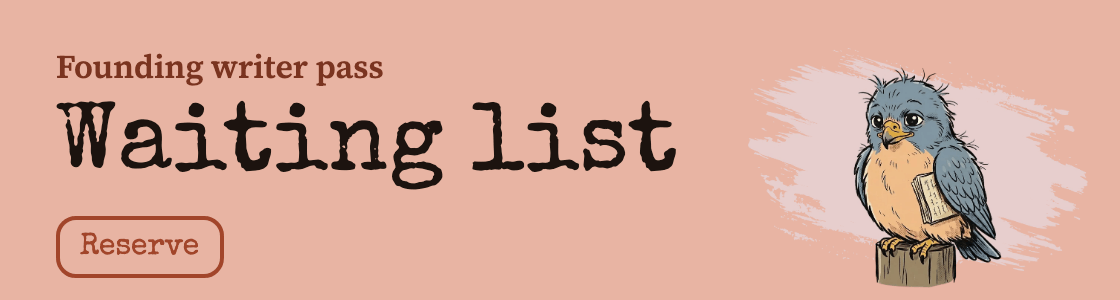
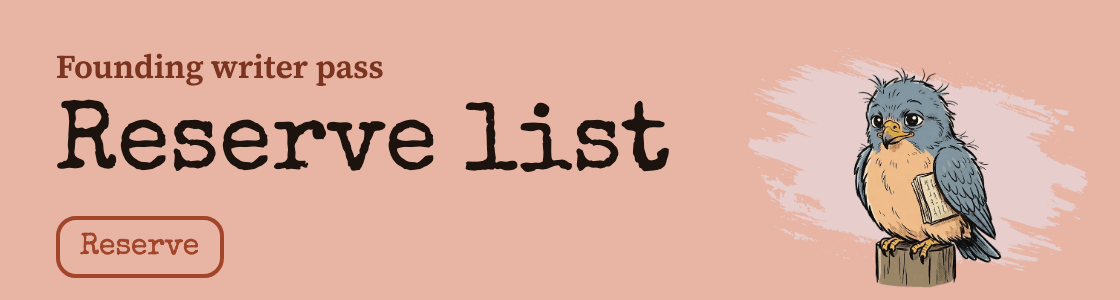
Waitlist clarity 5: the overflow state is the "reserve list"
"Waitlist" now means everyone who signs up, so the state after all fifty places have gone is the
reserve list in every word a reader sees. Constant names are unchanged.

Changed:
- emailCopy.ts: WAITING_SUBJECT, WAITING_PREHEADER, WAITING_PASS, WAITING_HEADING, WAITING_LEAD,
  WAITING_NOTHING_TO_DO ("stays on the reserve list"), UNSUBSCRIBE_NOTE_WAITING.
- welcomeCopy.ts: PASS_LABEL_WAITING, heroCopy("waiting") heading and lede, nextSteps("waiting").
- landingCopy.ts: FOUNDING_FULL.
- The two email images that draw it (pass-waiting.png, heading-waiting.png) and their alt text,
  rebuilt with scripts/email-images/build.mjs; the other 52 images came out byte-identical.
  They are hosting files, so they reach readers with the next hosting deploy.

Deliberately left:
- The confirm email's "you'll go on the waiting list instead" (CONFIRM_NOT_HELD): the brief says to
  leave the confirm email's wording as it is.
- legalCopy.ts, the privacy policy's "When you join the founding writers' waiting list…": that is the
  sign-up in general, and legal copy is its own review.
- src/lib/inviteCode.ts "Join the waiting list": the app's sign-up screen, outside this brief.
- Comments and test names.

Locks: WLC-5 in src/marketing/waitlistClarityCopy.test.ts and functions/src/waitlistClarity.test.ts
(four cases, red on the unchanged tree; the email is read as a reader sees it, images by their alt
text, and must never say "waiting list"). Re-pointed: foundingEmails EM-1/EM-4 and images-off,
[…]

Changed region(s): [[0.0312, 0.33, 0.625, 0.63]]

diff --git a/functions/src/foundingEmails.test.ts b/functions/src/foundingEmails.test.ts
@@ -80,18 +80,18 @@ const EXPECT = {
   },
   waiting: {
     email: waiting,
-    subject: "You're on the founding writers' waiting list",
-    preheader: "The fifty places went, but you're on the waiting list.",
+    subject: "You're on the founding writers' reserve list",
+    preheader: "The fifty places went, but you're on the reserve list.",
     strings: [
-      "Waiting list",
-      "All fifty places have gone, but you're on the waiting list.",
-      "Thanks for confirming. All fifty founding places were taken before your click came through, so you're on the waiting list, in the order people confirmed.",
+      "Reserve list",
+      "All fifty places have gone, but you're on the reserve list.",
+      "Thanks for confirming. All fifty founding places were taken before your click came through, so you're on the reserve list, in the order people confirmed.",
       /* decision 2(b) */
       "If a founding writer gives up their place, it goes to the next person in line, and I'll email you straight away if that's you.",
-      "You don't need to do anything else. Your address stays on the list, and you can take it off any time with the link below.",
+      "You don't need to do anything else. Your address stays on the reserve list, and you can take it off any time with the link below.",
       "Sorry we couldn't fit you in this time, and thank you for signing up.",
       "Nick", "Founder, QueryHawk",
-      "This takes you off the waiting list.",
+      "This takes you off the reserve list.",
       ...FOOT,
     ],
   },
@@ -209,7 +209,7 @@ describe("EM-4 · a freed place goes to the next writer in line, and the waiting
   });
   it("the sign-up's own words (landingCopy): FOUNDING_FULL promises the email", () => {
     const src = readFileSync(join(process.cwd(), "src/marketing/landingCopy.ts"), "utf8").replace(/\/\*[\s\S]*?\*\//g, "").replace(/\/\/[^\n]*/g, "");
-    expect(src).toContain("founding places have gone, but we've emailed you a link: click it to join the waiting list, and we'll email you if a place opens up.");
+    expect(src).toContain("founding places have gone, but we've emailed you a link: click it to join the reserve list, and we'll email you if a place opens up.");
   });
   it("the unsubscribe path sends email 2 to the writer it promotes, from one place", () => {
     const src = readFileSync(join(process.cwd(), "functions/src/waitlist.ts"), "utf8");
@@ -285,7 +285,7 @@ describe("images off (Outlook's default): the alts and the text still read in or
       "Once you've confirmed", "Nick", "Founder, QueryHawk", "Didn't ask for this?", "Button not working?"]],
     welcome: [welcome, ["Founding writer pass: No. 14 of 50", "That's your place confirmed.", "Welcome aboard.",
       "Hi, I'm Nick.", "Nick Founder, QueryHawk", "What you get", "What happens next"]],
-    waiting: [waiting, ["Founding writer pass: Waiting list", "All fifty places have gone, but you're on the waiting list.",
+    waiting: [waiting, ["Founding writer pass: Reserve list", "All fifty places have gone, but you're on the reserve list.",
       "Thanks for confirming.", "If a founding writer gives up their place, it goes to the next person in line,", "Nick Founder, QueryHawk"]],
   };
   for (const [name, [e, seq]] of Object.entries(ORDER)) {

diff --git a/functions/src/emailCopy.ts b/functions/src/emailCopy.ts
@@ -43,7 +43,7 @@ export const UNSUBSCRIBE_LABEL = "Unsubscribe";
 
 /** ⚠ SAY WHAT UNSUBSCRIBING COSTS. A place given up goes back to the list; that is worth knowing. */
 export const UNSUBSCRIBE_NOTE = "This takes you off the list and frees your place for another writer.";
-export const UNSUBSCRIBE_NOTE_WAITING = "This takes you off the waiting list.";
+export const UNSUBSCRIBE_NOTE_WAITING = "This takes you off the reserve list.";
 
 export const FOOT_LINE = "QueryHawk · Made in the UK, for writers";
 
@@ -116,21 +116,23 @@ export const WELCOME_NEXT: readonly string[] = [
      promises in the emails or on the welcome page. */
 ];
 
-/* ══════════════ 3 · Waiting list ══════════════ */
+/* ══════════════ 3 · Reserve list ══════════════
+   ⚠ "RESERVE LIST" IN EVERY WORD A READER SEES (waitlist clarity v1, 2 Nov): "waitlist" now means everyone who
+   signs up, so the overflow state cannot also be the "waiting list". The constant names stay WAITING_*. */
 
-export const WAITING_SUBJECT = "You're on the founding writers' waiting list";
-export const WAITING_PREHEADER = "The fifty places went, but you're on the waiting list.";
-export const WAITING_PASS = "Waiting list";
-export const WAITING_HEADING = "All fifty places have gone, but you're on the waiting list.";
+export const WAITING_SUBJECT = "You're on the founding writers' reserve list";
+export const WAITING_PREHEADER = "The fifty places went, but you're on the reserve list.";
+export const WAITING_PASS = "Reserve list";
+export const WAITING_HEADING = "All fifty places have gone, but you're on the reserve list.";
 export const WAITING_LEAD =
   "Thanks for confirming. All fifty founding places were taken before your click came through, so " +
-  "you're on the waiting list, in the order people confirmed.";
+  "you're on the reserve list, in the order people confirmed.";
 /** Bold lead, then the rest. True since a freed place promotes the next writer (2 Nov, PROMO-1). */
 export const WAITING_NOTE: [string, string] = [
   "If a founding writer gives up their place, it goes to the next person in line,",
   " and I'll email you straight away if that's you.",
 ];
 export const WAITING_NOTHING_TO_DO =
-  "You don't need to do anything else. Your address stays on the list, and you can take it off any " +
+  "You don't need to do anything else. Your address stays on the reserve list, and you can take it off any " +
   "time with the link below.";
 export const WAITING_SORRY = "Sorry we couldn't fit you in this time, and thank you for signing up.";

diff --git a/src/marketing/welcomePage.test.tsx b/src/marketing/welcomePage.test.tsx
@@ -74,7 +74,7 @@ describe("W1 · each state's heading, and the words around it", () => {
   });
   it("the waiting heading names the stored place, or none", () => {
     expect(text(view("waiting", { data: { reserveNumber: 1 } }))).toContain("So close. You're first in line.");
-    expect(text(view("waiting", { data: {} }))).toContain("So close. You're on the waiting list.");
+    expect(text(view("waiting", { data: {} }))).toContain("So close. You're on the reserve list.");
   });
   it("the formatters", () => {
     expect([1, 2, 3, 11, 23].map(ordinal)).toEqual(["1st", "2nd", "3rd", "11th", "23rd"]);
@@ -88,8 +88,8 @@ describe("W2 · the pass states the stored number and nothing else", () => {
   it("verified: No. 14 of 50, Confirmed, the long date", () => {
     expect(pass(view("verified"))).toMatch(/Founding writer pass No\. 14 of 50 .*QueryHawk Confirmed 2 November 2026/);
   });
-  it("waiting: the waiting list, 3rd in line, Reserve", () => {
-    expect(pass(view("waiting"))).toMatch(/Waiting list 3rd in line .*Reserve 2 November 2026/);
+  it("waiting: the reserve list, 3rd in line, Reserve", () => {
+    expect(pass(view("waiting"))).toMatch(/Reserve list 3rd in line .*Reserve 2 November 2026/);
   });
   it("no number in the data → no number, never an invented one", () => {
     const p = pass(view("verified", { data: null }));
@@ -130,7 +130,7 @@ describe("W4 · what each state draws and leaves out", () => {
   it("waiting: its own note, the 'If a place frees up' step, no perks, no get-ready", () => {
     expect(PLACES_OFFERED_ON).toBe(true);
     const t = text(view("waiting"));
-    expect(t).toContain("The last founding place went while your email sat in your inbox. You're confirmed and on the waiting list, in the order people confirmed. If a founding place frees up, it's offered to the next writer in line.");
+    expect(t).toContain("The last founding place went while your email sat in your inbox. You're confirmed and on the reserve list, in the order people confirmed. If a founding place frees up, it's offered to the next writer in line.");
     expect(t).toContain("Sorry we couldn't fit you in this time, and thank you for signing up. You're confirmed and in the queue, so if a place frees up, it's yours to take.");
     expect(t).toContain("Third in line, in the order writers confirmed.");
     expect(t).toContain("If a place frees up It's offered to the next writer in line, and you'll hear by email straight away.");

diff --git a/src/marketing/welcomeCopy.ts b/src/marketing/welcomeCopy.ts
@@ -80,8 +80,8 @@ export const heroCopy = (kind: WelcomeKind, data: WelcomeData): HeroCopy => {
       };
     case "waiting":
       return {
-        heading: r ? `So close. You're ${ordinalWord(r)} in line.` : "So close. You're on the waiting list.",
-        lede: "The last founding place went while your email sat in your inbox. You're confirmed and on the waiting list, in the order people confirmed." +
+        heading: r ? `So close. You're ${ordinalWord(r)} in line.` : "So close. You're on the reserve list.",
+        lede: "The last founding place went while your email sat in your inbox. You're confirmed and on the reserve list, in the order people confirmed." +
           (PLACES_OFFERED_ON ? " If a founding place frees up, it's offered to the next writer in line." : ""),
         line: "We've emailed you to say so.",
       };
@@ -103,7 +103,8 @@ export const FRESH_LINK_CTA = "Send a fresh link";
 /* ══════════════ The pass ══════════════ */
 
 export const PASS_LABEL = "Founding writer pass";
-export const PASS_LABEL_WAITING = "Waiting list";
+/* "Reserve list" (waitlist clarity v1, 2 Nov): "waitlist" means everyone who signs up now. Names stay WAITING. */
+export const PASS_LABEL_WAITING = "Reserve list";
 export const passBig = (n: number) => `No. ${n}`;
 export const PASS_OF = `of ${FOUNDING_CAP}`;
 export const PASS_IN_LINE = "in line";
@@ -142,8 +143,8 @@ export const nextSteps = (kind: WelcomeKind, data: WelcomeData): Step[] => {
   if (kind === "waiting") {
     const r = data.reserveNumber;
     return [
-      { title: "You're on the waiting list",
-        body: r ? `${cap(ordinalWord(r))} in line, in the order writers confirmed.` : "On the waiting list, in the order writers confirmed." },
+      { title: "You're on the reserve list",
+        body: r ? `${cap(ordinalWord(r))} in line, in the order writers confirmed.` : "On the reserve list, in the order writers confirmed." },
       /* 2(a) only: under 2(b) a freed place is not offered on, so the step is dropped. */
       ...(PLACES_OFFERED_ON ? [{ title: "If a place frees up", body: "It's offered to the next writer in line, and you'll hear by email straight away." }] : []),
       setUp,

diff --git a/src/marketing/waitlistClarityCopy.test.ts b/src/marketing/waitlistClarityCopy.test.ts
@@ -38,3 +38,19 @@ describe("WLC-4 · the landing's and the welcome page's copy, word for word", ()
     expect(words).not.toMatch(/\bmid-|weeks, not months/i);
   });
 });
+
+describe("WLC-5 · the overflow state is the reserve list, in every user-facing word", () => {
+  it("the landing's full message", () => {
+    expect(FOUNDING_FULL).toBe("All fifty founding places have gone, but we've emailed you a link: click it to join the reserve list, and we'll email you if a place opens up.");
+  });
+  it("the welcome page's reserve state: pass, heading, lede and steps", () => {
+    expect(PASS_LABEL_WAITING).toBe("Reserve list");
+    const h = heroCopy("waiting", {});
+    expect(h.heading).toBe("So close. You're on the reserve list.");
+    const steps = nextSteps("waiting", {});
+    expect(steps[0]).toEqual({ title: "You're on the reserve list", body: "On the reserve list, in the order writers confirmed." });
+    const all = [h.heading, h.lede, h.line ?? "", ...steps.flatMap((s) => [s.title, s.body]), heroCopy("waiting", { reserveNumber: 3 }).heading].join(" ");
+    expect(all).toContain("on the reserve list, in the order people confirmed");
+    expect(all).not.toMatch(/waiting list/i);
+  });
+});

diff --git a/functions/src/waitlistClarity.test.ts b/functions/src/waitlistClarity.test.ts
@@ -58,3 +58,24 @@ describe("WLC-4 · the confirm email is left as it is", () => {
     ]) expect(w).toContain(s);
   });
 });
+
+describe("WLC-5 · the overflow email calls it the reserve list", () => {
+  const m = ok(prepareWaiting(PROD, "unsub")) as Mail;
+
+  it("subject, preheader, pass, heading and lead", () => {
+    expect(m.subject).toBe("You're on the founding writers' reserve list");
+    const w = all(m);
+    for (const s of [
+      "The fifty places went, but you're on the reserve list.",
+      "Founding writer pass: Reserve list",
+      "All fifty places have gone, but you're on the reserve list.",
+      "Thanks for confirming. All fifty founding places were taken before your click came through, so you're on the reserve list, in the order people confirmed.",
+      "You don't need to do anything else. Your address stays on the reserve list, and you can take it off any time with the link below.",
+      "This takes you off the reserve list.",
+    ]) expect(w).toContain(s);
+  });
+
+  it("never says waiting list", () => {
+    expect(all(m)).not.toMatch(/waiting list/i);
+  });
+});

diff --git a/functions/src/emailImageManifest.ts b/functions/src/emailImageManifest.ts
@@ -366,10 +366,10 @@ export const EMAIL_IMAGES: Record<string, EmailImage> = {
   },
   "pass-waiting": {
     "path": "/images/email/pass-waiting.png",
-    "version": "65d596fd",
+    "version": "e1ec50a5",
     "width": 560,
     "height": 150,
-    "alt": "Founding writer pass: Waiting list"
+    "alt": "Founding writer pass: Reserve list"
   },
   "heading-confirm": {
     "path": "/images/email/heading-confirm.png",
@@ -387,10 +387,10 @@ export const EMAIL_IMAGES: Record<string, EmailImage> = {
   },
   "heading-waiting": {
     "path": "/images/email/heading-waiting.png",
-    "version": "18f4ccac",
+    "version": "34eec1a3",
     "width": 504,
     "height": 90,
-    "alt": "All fifty places have gone, but you're on the waiting list."
+    "alt": "All fifty places have gone, but you're on the reserve list."
   },
   "signature-nick": {
     "path": "/images/email/signature-nick.png",

diff --git a/src/marketing/marketingPageSmoke.test.tsx b/src/marketing/marketingPageSmoke.test.tsx
@@ -67,7 +67,7 @@ const PUBLIC_ROUTES: [path: string, node: () => React.ReactElement, mustContain:
      its state without a number. */
   ["/welcome?v=verified", () => <WelcomePage onNavigate={noNavigate} />, "Welcome, founding writer."],
   ["/welcome?v=already", () => <WelcomePage onNavigate={noNavigate} />, "You&#x27;re already on the list."],
-  ["/welcome?v=waiting", () => <WelcomePage onNavigate={noNavigate} />, "So close. You&#x27;re on the waiting list."],
+  ["/welcome?v=waiting", () => <WelcomePage onNavigate={noNavigate} />, "So close. You&#x27;re on the reserve list."],
   ["/welcome?v=expired", () => <WelcomePage onNavigate={noNavigate} />, "That link&#x27;s 48 hours are up."],
   ["/welcome?v=unknown", () => <WelcomePage onNavigate={noNavigate} />, "We don&#x27;t recognise that link."],
   ["/terms", () => <LegalPage doc="terms" onNavigate={noNavigate} />, "Terms of Service"],

diff --git a/src/marketing/landingCopy.test.ts b/src/marketing/landingCopy.test.ts
@@ -361,8 +361,8 @@ describe("landing copy — verbatim locks", () => {
     expect(FOUNDING_DUPE).toContain("click the link");
     /* 2 Nov (Nick): past the cap they still confirm by email, so the line sends them to the link, and
        promises the email a promotion sends (PROMO-1). */
-    expect(FOUNDING_FULL).toBe("All fifty founding places have gone, but we've emailed you a link: click it to join the waiting list, and we'll email you if a place opens up.");
-    expect(FOUNDING_FULL, "not on the list until they click").not.toMatch(/you're on the waiting list/i);
+    expect(FOUNDING_FULL).toBe("All fifty founding places have gone, but we've emailed you a link: click it to join the reserve list, and we'll email you if a place opens up.");
+    expect(FOUNDING_FULL, "not on the list until they click").not.toMatch(/you're on the reserve list/i);
   });
 
   /**

diff --git a/tests/e2e/welcomePage.public.ts b/tests/e2e/welcomePage.public.ts
@@ -34,8 +34,8 @@ const COPY: Record<Kind, { heading: string; lede: string; pass: string[] }> = {
   },
   waiting: {
     heading: "So close. You're third in line.",
-    lede: "The last founding place went while your email sat in your inbox. You're confirmed and on the waiting list, in the order people confirmed. If a founding place frees up, it's offered to the next writer in line.",
-    pass: ["Waiting list", "3rd", "in line", "Reserve", "2 November 2026"],
+    lede: "The last founding place went while your email sat in your inbox. You're confirmed and on the reserve list, in the order people confirmed. If a founding place frees up, it's offered to the next writer in line.",
+    pass: ["Reserve list", "3rd", "in line", "Reserve", "2 November 2026"],
   },
   expired: {
     heading: "That link's 48 hours are up.",

diff --git a/src/marketing/landingCopy.ts b/src/marketing/landingCopy.ts
@@ -256,7 +256,7 @@ export const FOUNDING_DUPE =
    what puts them on the waiting list with a reserve number, and a freed place then goes to the next
    writer in line, who is emailed (PROMO-1). So the line asks for the click and states the promise. */
 export const FOUNDING_FULL =
-  `All ${FOUNDING_CAP_WORD} founding places have gone, but we've emailed you a link: click it to join the waiting list, and we'll email you if a place opens up.`;
+  `All ${FOUNDING_CAP_WORD} founding places have gone, but we've emailed you a link: click it to join the reserve list, and we'll email you if a place opens up.`;
 export const FOUNDING_ERROR: CopyRun[] = [
   "That didn't send. Check the address and try again, or ",
   { link: "email us", mailto: supportMailto("QueryHawk founding members") },
